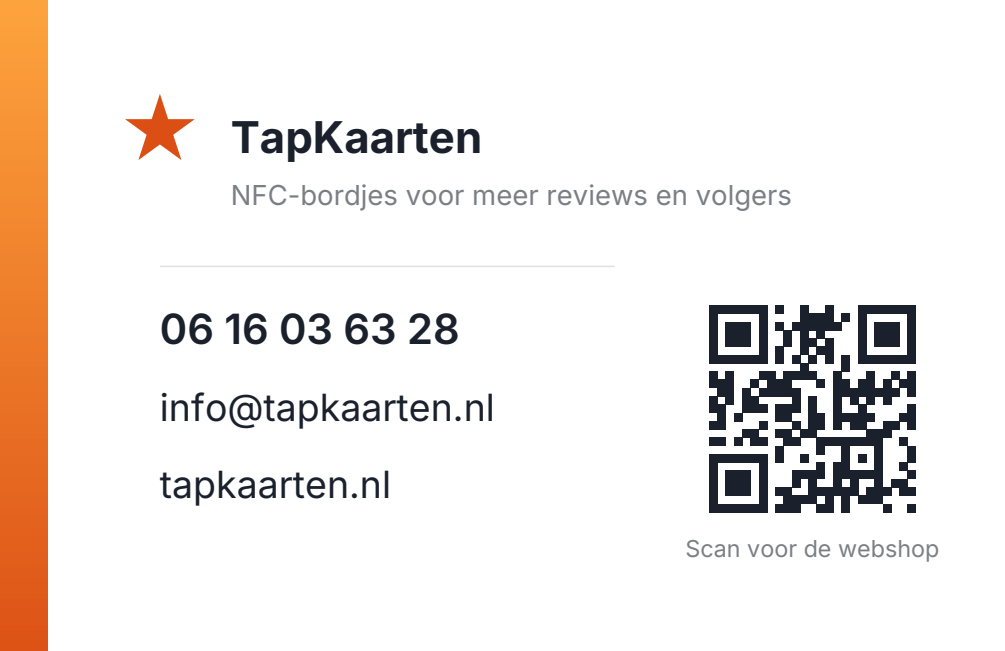
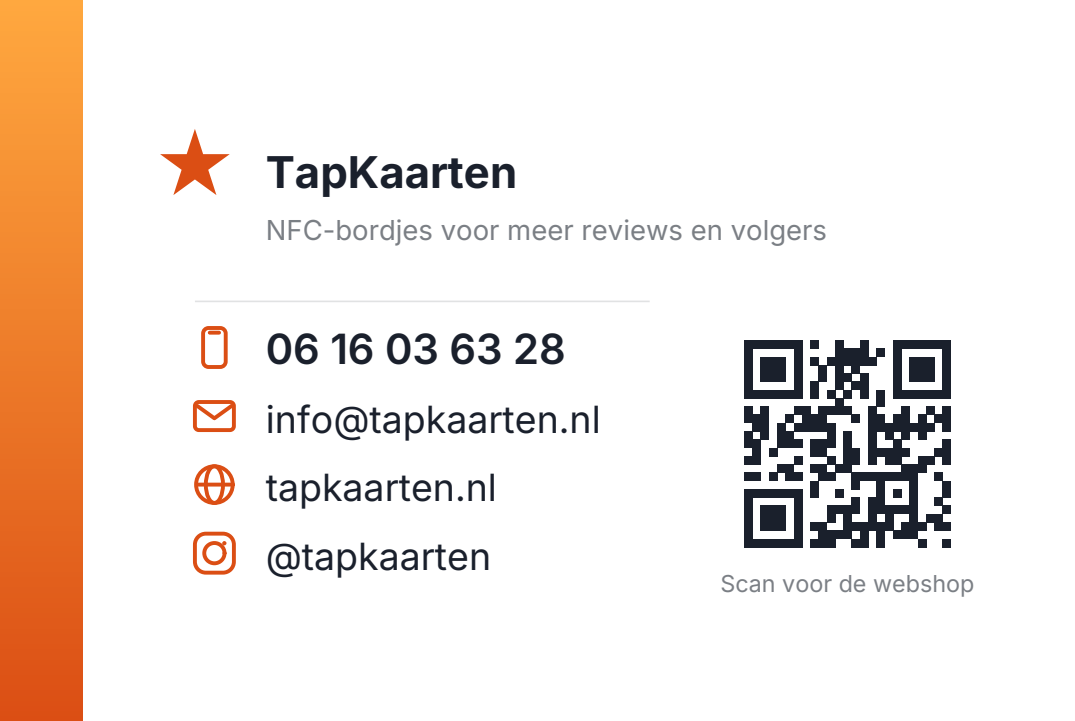
Instagram op het visitekaartje
Vierde contactregel erbij. Met vier regels heeft de kolom kleine tekens
nodig: een losse Instagram-glyph naast alleen die ene regel leest als een
fout. Regelafstand van 6,5 naar 5,8 mm zodat de onderste regel ruim boven
de veiligheidsrand blijft.

diff --git a/webshop/drukwerk/visitekaartje.py b/webshop/drukwerk/visitekaartje.py
@@ -48,6 +48,7 @@ EMAIL = "info@tapkaarten.nl"
 WEBSITE = "tapkaarten.nl"
 SITE_URL = "https://tapkaarten.nl"
 SLOGAN = "NFC-bordjes voor meer reviews en volgers"
+INSTAGRAM = "@tapkaarten"
 
 # Staat dit aan, dan worden alleen de vlakken getekend en geen tekst of
 # merkteken. Daarmee is na te meten wat er precies inkt is en wat achtergrond,
@@ -117,6 +118,50 @@ def nfc_bogen(c, cx, cy, kleur, schaal=1.0):
         c.drawPath(p, stroke=1, fill=0)
 
 
+def _lijn(c, maat, kleur):
+    c.setStrokeColor(kleur)
+    c.setFillColor(kleur)
+    c.setLineWidth(maat * 0.1)
+    c.setLineCap(1)
+    c.setLineJoin(1)
+
+
+def teken_telefoon(c, px, py, maat, kleur):
+    _lijn(c, maat, kleur)
+    b = maat * 0.58
+    c.roundRect(px + (maat - b) / 2, py, b, maat, maat * 0.14, stroke=1, fill=0)
+    c.line(px + maat * 0.38, py + maat * 0.88, px + maat * 0.62, py + maat * 0.88)
+
+
+def teken_envelop(c, px, py, maat, kleur):
+    _lijn(c, maat, kleur)
+    h = maat * 0.72
+    py += (maat - h) / 2
+    c.roundRect(px, py, maat, h, maat * 0.1, stroke=1, fill=0)
+    p = c.beginPath()
+    p.moveTo(px + maat * 0.06, py + h * 0.86)
+    p.lineTo(px + maat * 0.5, py + h * 0.42)
+    p.lineTo(px + maat * 0.94, py + h * 0.86)
+    c.drawPath(p, stroke=1, fill=0)
+
+
+def teken_wereldbol(c, px, py, maat, kleur):
+    _lijn(c, maat, kleur)
+    r = maat / 2
+    c.circle(px + r, py + r, r * 0.94, stroke=1, fill=0)
+    c.line(px + maat * 0.06, py + r, px + maat * 0.94, py + r)
+    c.ellipse(px + maat * 0.28, py + maat * 0.03, px + maat * 0.72, py + maat * 0.97,
+              stroke=1, fill=0)
+
+
+def teken_instagram(c, px, py, maat, kleur):
+    """Vereenvoudigd Instagram-teken: afgeronde vierkant, cirkel, stip."""
+    _lijn(c, maat, kleur)
+    c.roundRect(px, py, maat, maat, maat * 0.28, stroke=1, fill=0)
+    c.circle(px + maat / 2, py + maat / 2, maat * 0.26, stroke=1, fill=0)
+    c.circle(px + maat * 0.755, py + maat * 0.755, maat * 0.055, stroke=0, fill=1)
+
+
 def qr_tekenen(c, links, onder, maat, kleur):
     q = qrcode.QRCode(version=None, error_correction=qrcode.constants.ERROR_CORRECT_M, border=0)
     q.add_data(SITE_URL)
@@ -180,18 +225,21 @@ def achterkant(c):
     c.setLineWidth(0.4)
     c.line(x(13.5), y(32.5), x(52), y(32.5))
 
-    # Contactregels. Telefoon iets zwaarder: dat is waar iemand naar zoekt.
+    # Contactregels met een klein teken ervoor. Telefoon iets zwaarder gezet:
+    # dat is waar iemand op een visitekaartje naar zoekt.
     regels = [
-        ("Inter-Semi", 10, TELEFOON),
-        ("Inter", 9, EMAIL),
-        ("Inter", 9, WEBSITE),
+        (teken_telefoon,   "Inter-Semi", 10, TELEFOON),
+        (teken_envelop,    "Inter",       9, EMAIL),
+        (teken_wereldbol,  "Inter",       9, WEBSITE),
+        (teken_instagram,  "Inter",       9, INSTAGRAM),
     ]
-    hoogte = 25.9
-    for lettertype, korps, tekst in regels:
+    hoogte, teken_maat = 27.2, 3.3
+    for tekenaar, lettertype, korps, tekst in regels:
+        tekenaar(c, x(13.5), y(hoogte - 0.25), teken_maat * mm, ORANJE_DIEP)
         c.setFillColor(INKT)
         c.setFont(lettertype, korps)
-        c.drawString(x(13.5), y(hoogte), tekst)
-        hoogte -= 6.5
+        c.drawString(x(19.5), y(hoogte), tekst)
+        hoogte -= 5.8
 
     # De QR staat rechts, met zijn bijschrift ruim binnen de veilige rand.
     qr = 17.5

diff --git a/webshop/drukwerk/LEESMIJ.md b/webshop/drukwerk/LEESMIJ.md
@@ -32,8 +32,13 @@ Voorkant: het merkteken en de naam op je huisoranje, met één regel die uitlegt
 wat je verkoopt — want wie dit kaartje krijgt, kent je nog niet.
 
 Achterkant: telefoonnummer (iets zwaarder gezet, dat is waar mensen naar
-zoeken), e-mail, website, en een QR-code die naar tapkaarten.nl gaat. Die code
-is nagelezen met een scanner, ook op halve resolutie.
+zoeken), e-mail, website en Instagram, elk met een klein teken ervoor, en een
+QR-code die naar tapkaarten.nl gaat. Die code is nagelezen met een scanner,
+ook op halve resolutie.
+
+Die tekentjes zijn er niet voor de sier: met vier regels leest een losse
+Instagram-glyph naast alleen die ene regel als een fout, en vier tekens houden
+de tekstkolom bovendien netjes op één lijn.
 
 ## Iets veranderen
 
@@ -43,6 +48,7 @@ Alles staat in `visitekaartje.py`. De gegevens staan bovenin bij elkaar:
 TELEFOON = "06 16 03 63 28"
 EMAIL = "info@tapkaarten.nl"
 WEBSITE = "tapkaarten.nl"
+INSTAGRAM = "@tapkaarten"
 SITE_URL = "https://tapkaarten.nl"
 SLOGAN = "NFC-bordjes voor meer reviews en volgers"
 ```
